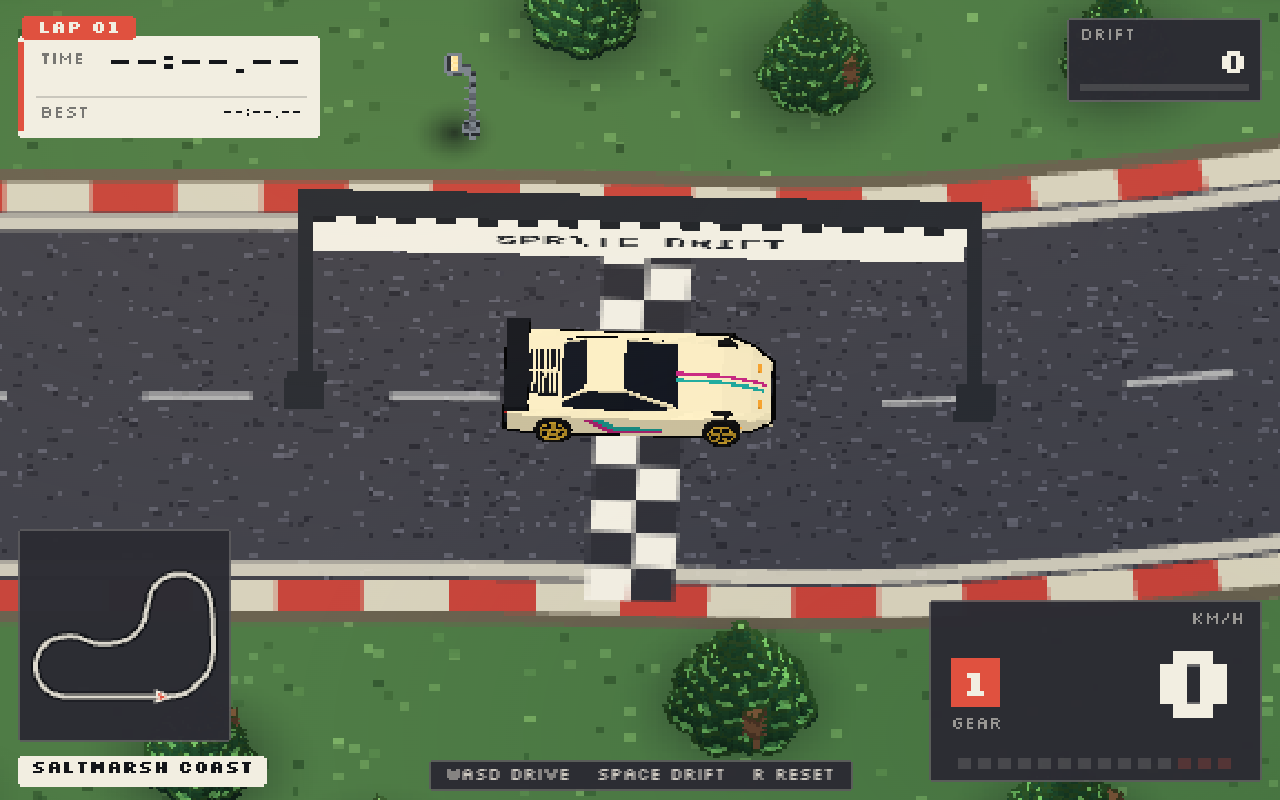
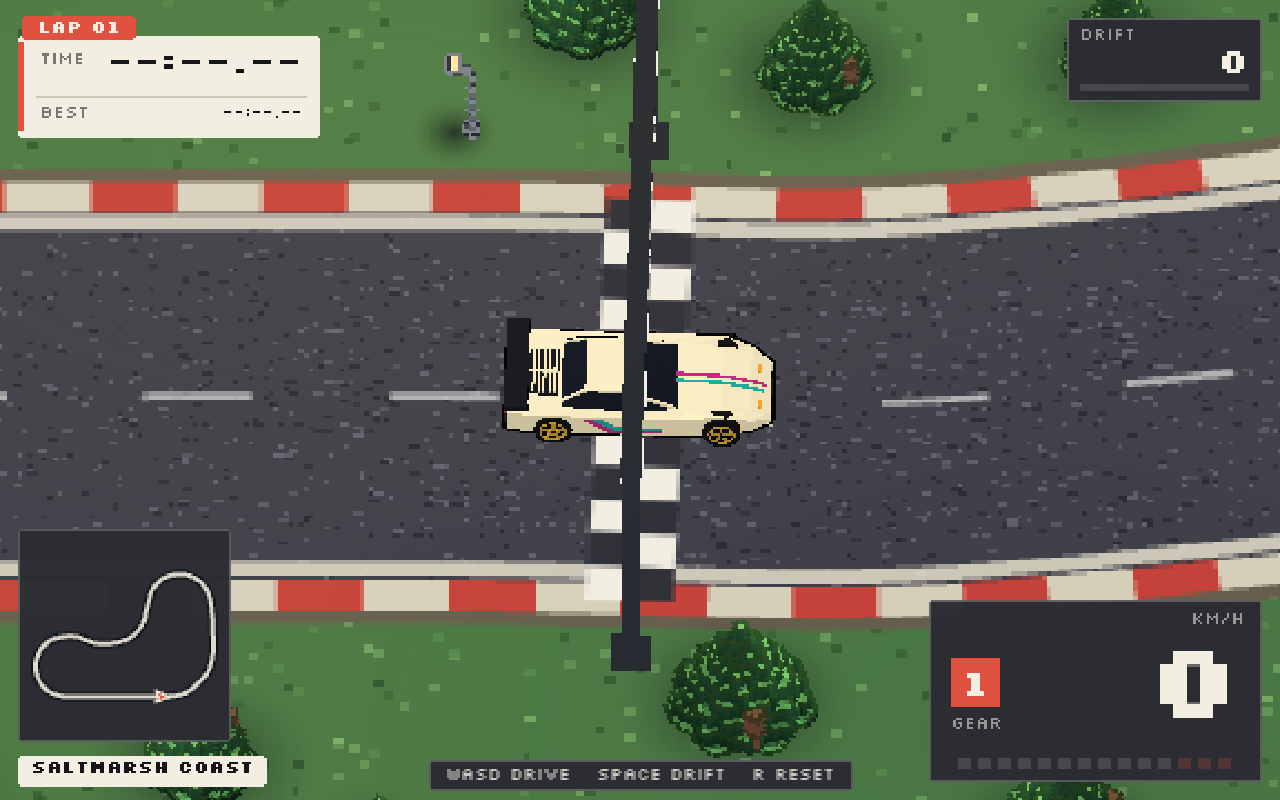
Gantry across the road (rotation fix); engine rpm curve

Changed region(s): [[0.2188, 0.0, 0.7812, 0.5312], [0.4688, 0.4688, 0.5312, 0.8438]]

diff --git a/src/sound.ts b/src/sound.ts
@@ -153,7 +153,8 @@ export class Sound {
     const sp = Math.abs(car.speed);
     const gearSpan = 9;
     const gearFrac = (sp % gearSpan) / gearSpan;
-    const rpm = 0.35 + gearFrac * 0.65;
+    // each gear pulls to the top of its band, then drops on the shift
+    const rpm = 0.30 + Math.pow(gearFrac, 0.7) * 0.70;
     const target = 46 + sp * 1.6 + rpm * 26;
     this.engA.frequency.setTargetAtTime(target, t, 0.06);
     this.engB.frequency.setTargetAtTime(target * 1.51, t, 0.06);

diff --git a/src/world.ts b/src/world.ts
@@ -616,7 +616,7 @@ export async function buildWorld(scene: THREE.Scene, mapId?: string): Promise<Wo
     }
 
     g.position.set(start.x, 0, start.z);
-    g.rotation.y = start.heading + Math.PI / 2;
+    g.rotation.y = start.heading;
     group.add(g);
   }
 
